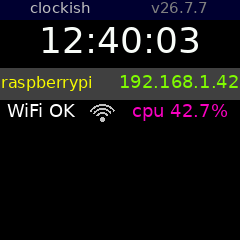
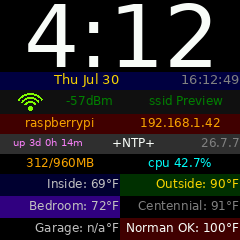
- add support for square ST7789 240x240 display - adjusted mem fact to support "mb" or "percent" or "both".  defaults to "both" which matches previous behavior

diff --git a/src/clockish/display.py b/src/clockish/display.py
@@ -428,7 +428,8 @@ def get_cpu_percent() -> float:
     _cpu_percent_cache_time = now
     return _cpu_percent_cached
 
-def get_mem_usage():
+def get_mem_usage(format_: str = 'both') -> str:
+    """Get memory usage. format_: 'both' (default), 'mb', 'percent'."""
     meminfo = {}
     with open("/proc/meminfo") as f:
         for line in f:
@@ -438,7 +439,13 @@ def get_mem_usage():
     avail_mb = meminfo['MemAvailable'] // 1024
     used_mb  = total_mb - avail_mb
     pct = used_mb * 100 / total_mb if total_mb else 0
-    return f"Mem: {used_mb}/{total_mb} MB  {pct:.2f}%"
+
+    if format_ == 'mb':
+        return f"{used_mb}/{total_mb}MB"
+    elif format_ == 'percent':
+        return f"{pct:.1f}%"
+    else:  # 'both' or default
+        return f"{used_mb}/{total_mb}MB {pct:.1f}%"
 
 def get_disk_usage():
     usage = shutil.disk_usage("/")
@@ -564,9 +571,18 @@ def get_wifi_info():
     get_wifi_info._cache_time  = now
     return get_wifi_info._cache_value
 
-def _get_fact(source: str) -> str:
-    """Return the raw value for a named system-info source (no label prefix)."""
-    return {
+def _get_fact(source: str, options: dict | None = None) -> str:
+    """Return the raw value for a named system-info source (no label prefix).
+
+    Args:
+        source: fact source name (e.g., 'mem', 'cpu', 'ip')
+        options: optional dict with source-specific format options
+                 (e.g., {'mem_format': 'mb'} for memory format control)
+    """
+    if options is None:
+        options = {}
+
+    registry = {
         'ip':           get_ip_address,
         'hostname':     get_hostname,
         'uptime':       get_uptime_str,
@@ -575,7 +591,7 @@ def _get_fact(source: str) -> str:
                                  else os.path.basename(_DEFAULT_CONFIG),
         'cpu':          lambda: f"{get_cpu_percent():.1f}%",
         'cpu_load':     lambda: f"{get_cpu_load():.2f}",
-        'mem':          get_mem_usage,
+        'mem':          lambda: get_mem_usage(options.get('mem_format', 'both')),
         'disk':         get_disk_usage,
         'temp':         get_cpu_temp,
         'ntp_status':   get_ntp_status,
@@ -589,7 +605,8 @@ def _get_fact(source: str) -> str:
         'wifi_signal':  lambda: get_wifi_info()[2],
         'wifi_quality': lambda: get_wifi_info()[3],
         'wifi_all':     lambda: "  ".join(get_wifi_info()),
-    }.get(source, lambda: source)()
+    }
+    return registry.get(source, lambda: source)()
 
 
 # Default labels shown when a fact panel has label: "default"
@@ -721,13 +738,14 @@ def _log_warning(msg: str) -> None:
             pass
 
 def _fetch_and_extract(url: str, pattern: str | None, json_path: str | None,
-                       timeout: int, verify_ssl: bool, fallback: str) -> str:
+                       timeout: int, verify_ssl: bool, fallback: str) -> tuple[str, int | None]:
     """Fetch URL and extract value using pattern or json_path.
 
     Returns:
-    - Extracted value (on success)
-    - "?" (if JSON key missing; logs warning)
-    - fallback (on network/fetch error)
+    - Tuple (value, status_code)
+    - Extracted value (on success) with HTTP status code (e.g., 200)
+    - "?" (if JSON key missing; logs warning) with status code
+    - fallback (on network/fetch error) with None status code
     """
     try:
         # Create SSL context (ignore certificate for https by default)
@@ -747,22 +765,23 @@ def _fetch_and_extract(url: str, pattern: str | None, json_path: str | None,
         else:
             response = urllib.request.urlopen(req, timeout=timeout)
 
+        status_code = response.status
         response_text = response.read().decode('utf-8')
 
         # Extract value
         if pattern:
             value = _extract_value_by_regex(response_text, pattern)
-            return value if value is not None else fallback
+            return (value if value is not None else fallback, status_code)
         else:  # json_path
             value, is_missing_key = _extract_value_by_json_path(response_text, json_path)
             if is_missing_key:
                 _log_warning(f"url-fact: JSON key '{json_path}' not found in {url}")
-                return "?"
-            return value if value is not None else fallback
+                return ("?", status_code)
+            return (value if value is not None else fallback, status_code)
     except Exception as e:
         if DEBUG:
             print(f"DEBUG: url-fact fetch failed: {url} -> {e}")
-        return fallback
+        return (fallback, None)
 
 def _handle_sigusr1(signum, frame):
     """SIGUSR1 handler: invalidate all remote fact cache entries."""
@@ -1440,7 +1459,11 @@ def _render_fact_panel(p: dict, px: int, py: int, pw: int, ph: int,
     f      = _get_font(p.get('font_size', 'normal'))
     color  = p.get('color', _C_WHITE)
     source = p['source']
-    value  = _get_fact(source)
+    # Build options dict for _get_fact (e.g., mem_format for 'mem' source)
+    fact_options = {}
+    if source == 'mem' and 'mem_format' in p:
+        fact_options['mem_format'] = p['mem_format']
+    value  = _get_fact(source, options=fact_options)
     value  = apply_transforms(value, p.get('transform'), debug=DEBUG)
 
     if 'label' not in p:
@@ -1466,7 +1489,7 @@ def _render_url_fact_panel(p: dict, px: int, py: int, pw: int, ph: int,
 
     f      = _get_font(p.get('font_size', 'normal'))
     color  = p.get('color', _C_WHITE)
-    url    = p.get('url', '')
+    url    = p.get('url', '').strip()
     pattern = p.get('pattern')
     json_path = p.get('json_path')
     interval_str = p.get('interval', '5m')
@@ -1500,7 +1523,9 @@ def _render_url_fact_panel(p: dict, px: int, py: int, pw: int, ph: int,
         now = time.monotonic()
         if cache_key not in _remote_fact_cache:
             # First fetch: happens immediately
-            value = _fetch_and_extract(url, pattern, json_path, timeout, verify_ssl, fallback)
+            value, status_code = _fetch_and_extract(url, pattern, json_path, timeout, verify_ssl, fallback)
+            if DEBUG:
+                print(f"DEBUG: url-fact FETCH: {url} -> HTTP {status_code}")
             _remote_fact_cache[cache_key] = {
                 'value': value, 'last_fetch_time': now, 'interval_secs': interval_secs,
             }
@@ -1509,12 +1534,16 @@ def _render_url_fact_panel(p: dict, px: int, py: int, pw: int, ph: int,
             last_fetch = cache_entry['last_fetch_time']
             if now - last_fetch >= interval_secs:
                 # Interval expired: fetch fresh value
-                value = _fetch_and_extract(url, pattern, json_path, timeout, verify_ssl, fallback)
+                value, status_code = _fetch_and_extract(url, pattern, json_path, timeout, verify_ssl, fallback)
+                if DEBUG:
+                    print(f"DEBUG: url-fact FETCH (refresh): {url} -> HTTP {status_code}")
                 cache_entry['value'] = value
                 cache_entry['last_fetch_time'] = now
             else:
                 # Use cached value
                 value = cache_entry['value']
+                if DEBUG:
+                    print(f"DEBUG: url-fact CACHED: {url} (expires in {interval_secs - (now - last_fetch):.1f}s)")
 
     # Apply transforms to the raw cached value each render (cheap; lets
     # config edits to 'transform:' take effect without cache invalidation).

diff --git a/tests/test_display_transform_wiring.py b/tests/test_display_transform_wiring.py
@@ -65,14 +65,14 @@ class TestDateTransform:
 class TestFactTransform:
     def test_transform_applied_to_fact_value(self, monkeypatch):
         calls = _capture_draw_text(monkeypatch)
-        monkeypatch.setattr(cd, '_get_fact', lambda source: 'hello world')
+        monkeypatch.setattr(cd, '_get_fact', lambda source, options=None: 'hello world')
         panel = {'source': 'hostname', 'transform': ['titlecase']}
         cd._render_fact_panel(panel, 0, 0, 100, 40, d=None)
         assert calls[0] == 'HelloWorld'
 
     def test_no_transform_keeps_raw_fact_value(self, monkeypatch):
         calls = _capture_draw_text(monkeypatch)
-        monkeypatch.setattr(cd, '_get_fact', lambda source: 'hello world')
+        monkeypatch.setattr(cd, '_get_fact', lambda source, options=None: 'hello world')
         panel = {'source': 'hostname'}
         cd._render_fact_panel(panel, 0, 0, 100, 40, d=None)
         assert calls[0] == 'hello world'
@@ -89,7 +89,7 @@ class TestUrlFactTransform:
 
     def test_transform_rounds_fetched_value(self, monkeypatch):
         calls = _capture_draw_text(monkeypatch)
-        monkeypatch.setattr(cd, '_fetch_and_extract', lambda *a, **k: '71.8')
+        monkeypatch.setattr(cd, '_fetch_and_extract', lambda *a, **k: ('71.8', 200))
         # Ensure a clean cache slot for this specific panel dict instance.
         panel = self._fresh_panel(transform=['round'])
         cd._remote_fact_cache.pop(id(panel), None)
@@ -98,7 +98,7 @@ class TestUrlFactTransform:
 
     def test_no_transform_keeps_raw_fetched_value(self, monkeypatch):
         calls = _capture_draw_text(monkeypatch)
-        monkeypatch.setattr(cd, '_fetch_and_extract', lambda *a, **k: '71.8')
+        monkeypatch.setattr(cd, '_fetch_and_extract', lambda *a, **k: ('71.8', 200))
         panel = self._fresh_panel()
         cd._remote_fact_cache.pop(id(panel), None)
         cd._render_url_fact_panel(panel, 0, 0, 100, 40, d=None)
@@ -112,7 +112,7 @@ class TestUrlFactTransform:
 
         def _fake_fetch(*a, **k):
             fetch_calls.append(1)
-            return '71.8'
+            return ('71.8', 200)
 
         monkeypatch.setattr(cd, '_fetch_and_extract', _fake_fetch)
         panel = self._fresh_panel(transform=['round'])

diff --git a/src/clockish/config_validator.py b/src/clockish/config_validator.py
@@ -151,7 +151,7 @@ _PANEL_TYPE_ATTRS: dict[str, frozenset[str]] = {
     }),
     'fact': frozenset({
         'type', 'justify', 'color', 'font', 'font_size', 'font_behavior', 'width',
-        'background', 'label', 'source', 'transform', 'padding',
+        'background', 'label', 'source', 'transform', 'padding', 'mem_format',
     }),
     'text': frozenset({
         'type', 'justify', 'color', 'font', 'font_size', 'font_behavior', 'width',
@@ -568,6 +568,18 @@ def _validate_semantics(config: dict, file_path: str) -> list[ValidationIssue]:
                         f"unrecognised fact source '{source}' "
                         f"(known sources: {', '.join(sorted(KNOWN_FACT_SOURCES))})",
                     )
+
+                # Validate mem_format if present and source is 'mem'
+                if source == 'mem':
+                    mem_format = panel.get('mem_format')
+                    if mem_format is not None:
+                        valid_mem_formats = {'both', 'mb', 'percent'}
+                        if mem_format not in valid_mem_formats:
+                            err(
+                                ploc,
+                                f"mem_format '{mem_format}' invalid "
+                                f"(use: {', '.join(sorted(valid_mem_formats))})",
+                            )
 
             # 7. url-fact panel: url required, exactly one of pattern/json_path required
             if ptype == 'url-fact':
